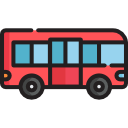
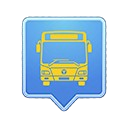
updated

diff --git a/script.js b/script.js
@@ -24,7 +24,7 @@ L.tileLayer('https://{s}.tile.openstreetmap.org/{z}/{x}/{y}.png', {
 // 🚍 BUS ICON (small = professional look)
 var busIcon = L.icon({
   iconUrl: "bus.png",
-  iconSize: [28, 28],
+  iconSize: [50, 50],
   iconAnchor: [14, 14]
 });
 
@@ -36,11 +36,14 @@ const FALLBACK_LON = 78.643106;
 // 📍 ROUTE
 var route = L.polyline([], { color: 'blue', weight: 4 }).addTo(map);
 var stopMarkers = [];
+var stopPoints = [];
+// drawnRoutes holds polylines loaded from saved routes so we can clear them
+var drawnRoutes = [];
 
 // 🔄 STATE
 let currentLatLng = null;
 let animationInterval = null;
-let lastAngle = 0;
+// rotation removed: bus icon should remain stable
 
 let prevLat = null;
 let prevLon = null;
@@ -50,6 +53,9 @@ let lastLon = null;
 
 let totalDistance = 0;
 let lastUpdate = null;
+let firebaseConnected = false;
+let connectionEstablished = false;
+let skipInitialGpsSnapshot = true;
 
 let tracking = true;
 let routePoints = [];
@@ -167,6 +173,16 @@ function loadLastLocation() {
 
 loadLastLocation();
 
+// Firebase connection state monitor
+const connectedRef = db.ref('.info/connected');
+connectedRef.on('value', (snap) => {
+  firebaseConnected = !!snap.val();
+  if (firebaseConnected) {
+    connectionEstablished = true;
+  }
+  console.log("[DEBUG] .info/connected =>", firebaseConnected, "connectionEstablished:", connectionEstablished, new Date().toISOString());
+});
+
 // � Make the panel draggable on touch/mobile
 const panel = document.querySelector('.panel');
 let panelDrag = false;
@@ -206,7 +222,15 @@ if (panel) {
 // �🔥 FIREBASE LISTENER
 db.ref("gps").limitToLast(1).on("value", (snapshot) => {
 
+  // ignore the initial cached snapshot that Firebase provides immediately on connect
+  if (skipInitialGpsSnapshot) {
+    skipInitialGpsSnapshot = false;
+    console.log("[DEBUG] Ignoring initial cached gps snapshot");
+    return;
+  }
+
   const data = snapshot.val();
+  console.log("[DEBUG] gps.on value received:", data);
   if (!data) return;
 
   const parsed = parseGpsSnapshot(data);
@@ -247,6 +271,7 @@ db.ref("gps").limitToLast(1).on("value", (snapshot) => {
     lastUpdate = Date.now();
     lastLat = lat;
     lastLon = lon;
+    console.log("[DEBUG] lastUpdate set =>", new Date(lastUpdate).toISOString());
   }
 
   // 🚍 animate bus
@@ -271,22 +296,22 @@ db.ref("gps").limitToLast(1).on("value", (snapshot) => {
     speed = (dist / timeDiff) * 3600;
   }
 
-  // 🧠 MOVEMENT LOGIC (combined)
-  if (dist > 0.003 && speed > 5) {
-    moveScore++;
-  } else {
-    moveScore--;
-  }
+  // // 🧠 MOVEMENT LOGIC (combined)
+  // if (dist > 0.003 && speed > 5) {
+  //   moveScore++;
+  // } else {
+  //   moveScore--;
+  // }
 
-  moveScore = Math.max(0, Math.min(moveScore, 5));
+  // moveScore = Math.max(0, Math.min(moveScore, 5));
 
-  if (moveScore >= 3) {
-    busStatus = "MOVING";
-  } else {
-    busStatus = "STOPPED";
-  }
+  // if (moveScore >= 3) {
+  //   busStatus = "MOVING";
+  // } else {
+  //   busStatus = "STOPPED";
+  // }
 
-  lastUpdateTime = now;
+  // lastUpdateTime = now;
 
   // 📍 ROUTE (ignore noise)
   if (tracking && dist > 0.003) {
@@ -311,6 +336,8 @@ db.ref("gps").limitToLast(1).on("value", (snapshot) => {
   document.getElementById("distance").innerHTML =
     "📏 Distance: " + totalDistance.toFixed(3) + " km";
 
+  updateEta(lat, lon, speed);
+
   // 🚍 BUS STATUS UI (FIXED LOCATION)
   if (busStatus === "MOVING") {
     document.getElementById("busStatus").innerHTML = "🚍 MOVING";
@@ -332,16 +359,73 @@ document.getElementById("gpsStatus").style.color =
 
 // 🔴 OFFLINE CHECK
 setInterval(() => {
-  if (!lastUpdate) return;
+  console.log("[DEBUG] statusCheck => firebaseConnected:", firebaseConnected, "connectionEstablished:", connectionEstablished, "lastUpdate:", lastUpdate ? new Date(lastUpdate).toISOString() : null);
+  if (!firebaseConnected && !connectionEstablished) {
+    document.getElementById("statusPanel").innerHTML = "🔄 CONNECTING";
+    document.getElementById("statusPanel").style.color = "orange";
+    return;
+  }
+
+  if (!firebaseConnected) {
+    document.getElementById("statusPanel").innerHTML = "🔴 OFFLINE";
+    document.getElementById("statusPanel").style.color = "red";
+    document.getElementById("busStatus").innerHTML = "Bus Status: --";
+    document.getElementById("busStatus").style.color = "gray";
+    document.getElementById("speed").innerHTML = "Speed: --";
+    return;
+  }
+
+  if (!lastUpdate) {
+     console.log("[DEBUG] statusCheck => no lastUpdate, showing CONNECTING");
+    document.getElementById("statusPanel").innerHTML = "🔄 CONNECTING";
+    document.getElementById("statusPanel").style.color = "orange";
+    return;
+  }
 
   let diff = (Date.now() - lastUpdate) / 1000;
 
   if (diff > 15) {
+     console.log("[DEBUG] statusCheck => lastUpdate too old (", diff, "s), showing OFFLINE");
     document.getElementById("statusPanel").innerHTML = "🔴 OFFLINE";
     document.getElementById("statusPanel").style.color = "red";
+
+    // When offline, hide live bus status and speed
+    const busEl = document.getElementById("busStatus");
+    const speedEl = document.getElementById("speed");
+    if (busEl) {
+      busEl.innerHTML = "Bus Status: --";
+      busEl.style.color = "gray";
+    }
+    if (speedEl) {
+      speedEl.innerHTML = "Speed: --";
+    }
   } else {
+     console.log("[DEBUG] statusCheck => recent lastUpdate (", diff, "s), showing ONLINE");
     document.getElementById("statusPanel").innerHTML = "🟢 ONLINE";
     document.getElementById("statusPanel").style.color = "lime";
+
+    // Restore bus status and speed display when online
+    const busEl = document.getElementById("busStatus");
+    const speedEl = document.getElementById("speed");
+    if (busEl) {
+      if (busStatus === "MOVING") {
+        busEl.innerHTML = "🚍 MOVING";
+        busEl.style.color = "lime";
+      } else if (busStatus === "STOPPED") {
+        busEl.innerHTML = "🛑 STOPPED";
+        busEl.style.color = "red";
+      } else {
+        busEl.innerHTML = busStatus || "--";
+        busEl.style.color = "black";
+      }
+    }
+    if (speedEl) {
+      if (typeof speed === 'number' && isFinite(speed)) {
+        speedEl.innerHTML = "🚀 Speed: " + speed.toFixed(2) + " km/h";
+      } else {
+        speedEl.innerHTML = "Speed: --";
+      }
+    }
   }
 }, 3000);
 
@@ -351,8 +435,7 @@ function animateMarker(newLat, newLon) {
   if (!marker) {
     currentLatLng = [newLat, newLon];
     marker = L.marker(currentLatLng, {
-      icon: busIcon,
-      rotationAngle: 0
+      icon: busIcon
     }).addTo(map);
     map.setView(currentLatLng, 16);
     return;
@@ -376,14 +459,6 @@ function animateMarker(newLat, newLon) {
   let latStep = (newLat - lat1) / steps;
   let lonStep = (newLon - lon1) / steps;
 
-  let newAngle = getAngle(lat1, lon1, newLat, newLon);
-
-  let diff = newAngle - lastAngle;
-  if (diff > 180) diff -= 360;
-  if (diff < -180) diff += 360;
-
-  let angle = lastAngle + diff * 0.3;
-  lastAngle = angle;
 
   if (animationInterval) clearInterval(animationInterval);
 
@@ -396,9 +471,7 @@ function animateMarker(newLat, newLon) {
 
     marker.setLatLng([lat, lon]);
 
-    if (dist > 0.005) {
-      marker.setRotationAngle(angle);
-    }
+    // keep marker upright and non-rotating
 
     map.panTo([lat, lon]);
 
@@ -424,10 +497,48 @@ function getDistance(lat1, lon1, lat2, lon2) {
   return R * (2 * Math.atan2(Math.sqrt(a), Math.sqrt(1 - a)));
 }
 
-// 🧭 ANGLE
-function getAngle(lat1, lon1, lat2, lon2) {
-  return Math.atan2(lon2 - lon1, lat2 - lat1) * (180 / Math.PI);
+function getClosestStop(lat, lon) {
+  if (stopPoints.length === 0) return null;
+  let closest = null;
+  let closestDist = Infinity;
+
+  for (const pt of stopPoints) {
+    const d = getDistance(lat, lon, pt.lat, pt.lon);
+    if (d < closestDist) {
+      closestDist = d;
+      closest = pt;
+    }
+  }
+
+  return closest ? { lat: closest.lat, lon: closest.lon, distanceKm: closestDist } : null;
 }
+
+function updateEta(lat, lon, speedKmh) {
+  const etaEl = document.getElementById("eta");
+  if (!etaEl) return;
+
+  const nextStop = getClosestStop(lat, lon);
+  if (!nextStop) {
+    etaEl.innerHTML = "ETA: --";
+    return;
+  }
+
+  if (!speedKmh || !isFinite(speedKmh) || speedKmh < 0.5) {
+    etaEl.innerHTML = "ETA: --";
+    return;
+  }
+
+  const minutes = (nextStop.distanceKm / speedKmh) * 60;
+  if (!isFinite(minutes) || minutes < 0) {
+    etaEl.innerHTML = "ETA: --";
+    return;
+  }
+
+  etaEl.innerHTML = `⏱ ETA: ${minutes.toFixed(1)} min`;
+}
+
+// 🧭 ANGLE
+// getAngle removed since rotation is disabled
 
 // 🎮 BUTTONS
 function startTracking() {
@@ -462,6 +573,7 @@ function addStop() {
   }).addTo(map);
 
   stopMarkers.push(stopMarker);
+  stopPoints.push({ lat: Number(lat), lon: Number(lon) });
 
   db.ref("points").push({
     timestamp: new Date().toISOString(),
@@ -479,10 +591,25 @@ function addStop() {
 }
 
 function clearRoute() {
+  // clear live route
   route.setLatLngs([]);
   routePoints = [];
   totalDistance = 0;
-  alert("🧹 Route Cleared");
+
+  // remove any drawn saved routes
+  try {
+    drawnRoutes.forEach(r => { if (r && map.hasLayer(r)) map.removeLayer(r); });
+  } catch (e) { /* ignore */ }
+  drawnRoutes = [];
+
+  // remove any stop/point markers
+  try {
+    stopMarkers.forEach(m => { if (m && map.hasLayer(m)) map.removeLayer(m); });
+  } catch (e) { /* ignore */ }
+  stopMarkers = [];
+  stopPoints = [];
+
+  alert("🧹 Route and Points Cleared");
 }
 
 function saveRoute() {
@@ -500,16 +627,48 @@ function saveRoute() {
 }
 
 function loadRoutes() {
+  // Clear any previously-loaded stop markers
+  try {
+    stopMarkers.forEach(m => { if (m && map.hasLayer(m)) map.removeLayer(m); });
+  } catch (e) { /* ignore */ }
+  stopMarkers = [];
+  stopPoints = [];
+
+  // Load saved routes first
   db.ref("routes").once("value", (snapshot) => {
     snapshot.forEach((child) => {
       let path = child.val().path;
 
-      L.polyline(
+      const poly = L.polyline(
         path.map(p => [p.lat, p.lon]),
         { color: "red" }
       ).addTo(map);
+      drawnRoutes.push(poly);
     });
 
-    alert("📂 Routes Loaded");
+    // After routes, load saved points and display them
+    db.ref("points").once("value", (ptsSnap) => {
+      ptsSnap.forEach((pt) => {
+        const val = pt.val();
+        if (!val || typeof val.lat === 'undefined' || typeof val.lon === 'undefined') return;
+        const m = L.circleMarker([Number(val.lat), Number(val.lon)], {
+          color: "orange",
+          fillColor: "#f39c12",
+          fillOpacity: 0.8,
+          radius: 8,
+          weight: 2
+        }).addTo(map);
+
+        let popupText = "📍 Point";
+        if (val.timestamp) popupText += " — " + val.timestamp;
+        if (val.message) popupText += "\n" + val.message;
+        m.bindPopup(popupText);
+
+              stopMarkers.push(m);
+        stopPoints.push({ lat: Number(val.lat), lon: Number(val.lon) });
+      });
+
+      alert("📂 Routes and Points Loaded");
+    });
   });
 }

diff --git a/index.html b/index.html
@@ -29,11 +29,12 @@
 <div class="panel">
   <div id="statusPanel">🔴 OFFLINE</div>
   <div id="coords">Waiting for GPS...</div>
-  <div id="speed">Speed: 0 km/h</div>
-  <div id="distance">Distance: 0 km</div>
-  <div id="busStatus">🛑 STOPPED</div>
-  <!-- <div id="points">Points: 0</div>
-  <div id="time">Duration: 0 sec</div>
+  <div id="speed">Speed: -- km/h</div>
+  <div id="distance">Distance: -- km</div>
+  <div id="eta">ETA: --</div>
+  <div id="busStatus">Bus Status: --</div>
+  <!-- <div id="points">Points: 0</div>  
+  <div id="time">Duration: 0 sec</div>   
   <div id="simStatus">📡 SIM: --</div>
   <div id="netStatus">📶 NETWORK: --</div>
   <div id="gpsStatus">📍 GPS: --</div>
